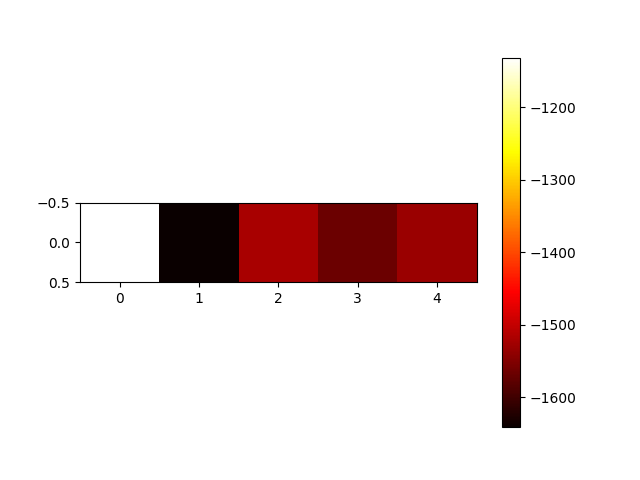
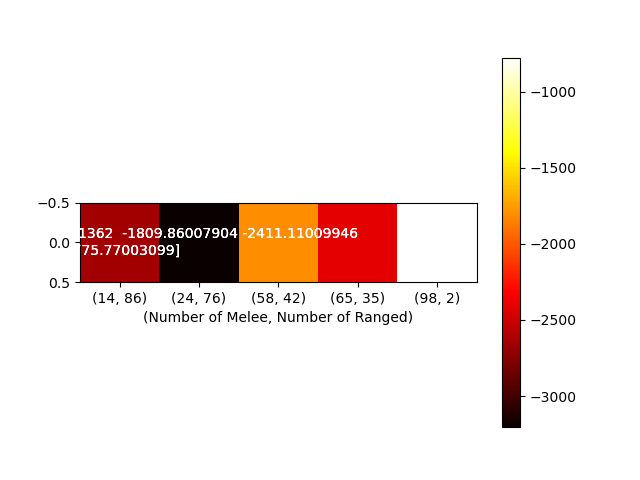
fix del problema della finestra che si rimpiccioliva

diff --git a/custom_combined_arms.py b/custom_combined_arms.py
@@ -75,6 +75,7 @@ def get_config(
     map_size,
     minimap_mode,
     seed,
+    env_data,
     step_reward,
     dead_penalty,
     attack_penalty,
@@ -213,12 +214,12 @@ def generate_map(env, map_size, handles, env_data):
 
     init_num = map_size * map_size * 0.04
 
-    if env_data == FormationType.RANDOM:
-        env.add_agents(handles[0], method="random", n=10)
-        env.add_agents(handles[1], method="random", n=10)
-        env.add_agents(handles[2], method="random", n=10)
-        env.add_agents(handles[3], method="random", n=10)
-    elif env_data == FormationType.DEFAULT:
+    if env_data.initial_formation == FormationType.RANDOM:
+        env.add_agents(handles[0], method="random", n=env_data.number_of_melee)
+        env.add_agents(handles[1], method="random", n=env_data.number_of_ranged)
+        env.add_agents(handles[2], method="random", n=env_data.number_of_melee)
+        env.add_agents(handles[3], method="random", n=env_data.number_of_ranged)
+    elif env_data.initial_formation == FormationType.DEFAULT:
         gap = 3
         # left
         n = init_num
@@ -289,7 +290,7 @@ class _parallel_env(magent_parallel_env, EzPickle):
         )
         assert map_size >= 16, "size of map must be at least 16"
         self.env_data = env_data
-        env = magent2.GridWorld(get_config(map_size, minimap_mode, seed, **reward_args))
+        env = magent2.GridWorld(get_config(map_size, minimap_mode, seed, env_data, **reward_args))
         reward_vals = np.array([KILL_REWARD] + list(reward_args.values()))
         reward_range = [
             np.minimum(reward_vals, 0).sum(),

diff --git a/map_elites.py b/map_elites.py
@@ -110,12 +110,15 @@ class MAP_Elites:
     def log(self, file=None, as_plot=False): 
         if file is not None: 
             if as_plot:
-                agent_count = [(i[0].melee_count, i[0].ranged_count) for i in self.solution_space_grid]
+                agent_count = [(i[0].number_of_melee, i[0].number_of_ranged) for i in self.solution_space_grid]
                 ls = np.array([[i[1] for i in self.solution_space_grid]])
 
-                plt.imshow(ls, cmap='hot', interpolation='nearest')
-                # TODO: testa che questo funzioni
+                plt.imshow(ls, cmap='hot', interpolation='nearest', )
+                plt.xlabel("(Number of Melee, Number of Ranged)")
                 plt.xticks(np.arange(len(agent_count)), agent_count)
+
+                for i in range(len(ls)):
+                    plt.text(i, 0, str(ls[i]), ha="center", va="center", color="w")
                 
                 if self.log_counter == 0: 
                     plt.colorbar()

diff --git a/main.py b/main.py
@@ -3,7 +3,7 @@ from map_elites import MAP_Elites
 from problem_params import ProblemParameters
 import os
 
-NO_DISPLAY = False
+NO_DISPLAY = True
 
 def main(): 
     if NO_DISPLAY: 
